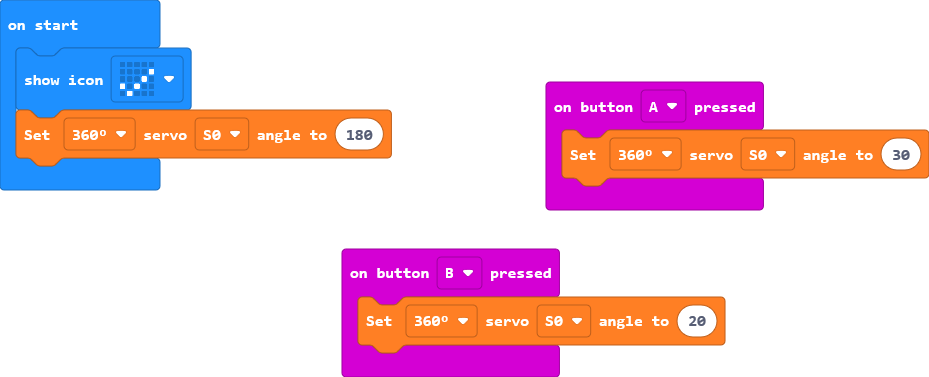
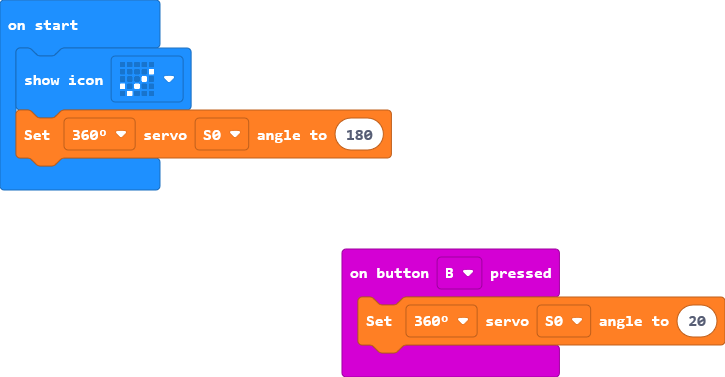
Update main.blocks, main.ts

diff --git a/main.ts b/main.ts
@@ -1,6 +1,3 @@
-input.onButtonPressed(Button.A, function () {
-    wuKong.setServoAngle(wuKong.ServoTypeList._360, wuKong.ServoList.S0, 30)
-})
 input.onButtonPressed(Button.B, function () {
     wuKong.setServoAngle(wuKong.ServoTypeList._360, wuKong.ServoList.S0, 20)
 })
